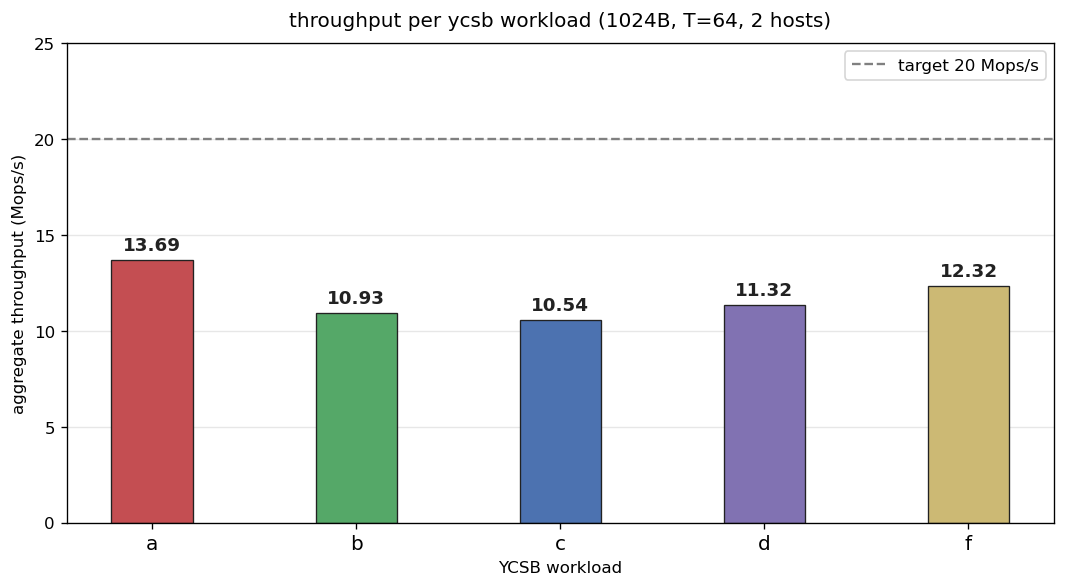
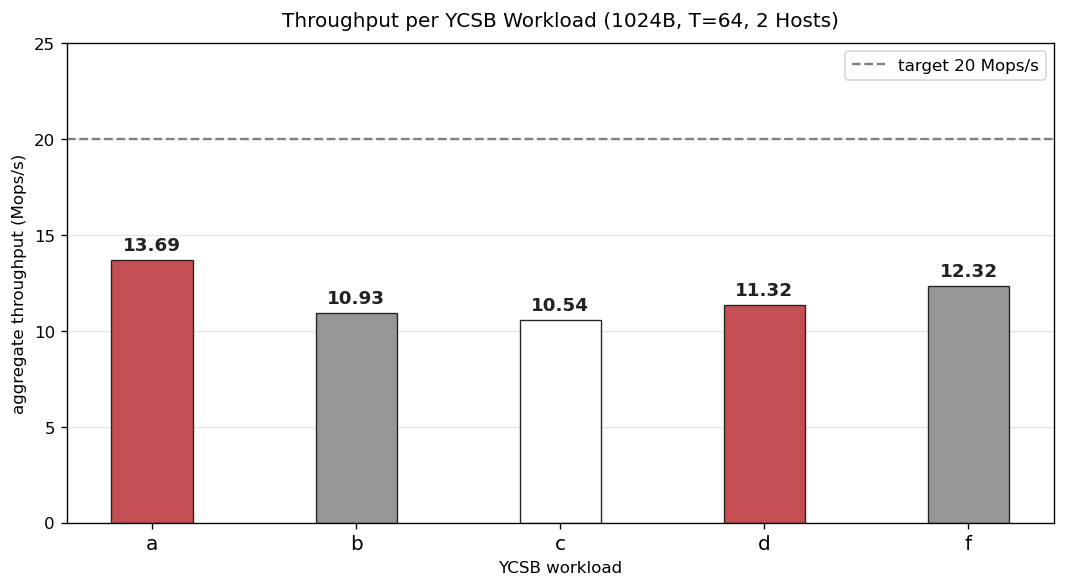
[iter11A-P6][plots] Best-per-workload titles use Title Case; thpt bars rotate STYLE_B red/grey/white
Title case fixed:
    Throughput per YCSB Workload (1024B, T=64, 2 Hosts)
    Latency per YCSB Workload (1024B, T=64, 2 Hosts)

  Throughput chart colour scheme:
    Drop the seaborn-deep per-workload palette. Rotate through the
    project STYLE_B colours instead — red (STYLE_B[2]) / mid-grey
    (STYLE_B[1]) / white — so adjacent bars are visually distinct
    without using out-of-palette hues:
      a = red    b = grey   c = white   d = red    f = grey

    All bars carry the STYLE_B dark edge so the white bar is
    visible against the background.

  Latency chart palette unchanged (write avg red + read avg grey).

diff --git a/scripts/plot_iter11A_best_per_workload.py b/scripts/plot_iter11A_best_per_workload.py
@@ -87,16 +87,20 @@ def best_per_workload(rows, kv=None):
 def plot_thpt(best, out_path):
     """Vertical bar chart: x=workload, y=throughput (Mops/s).
 
-    Bars are half-width (0.4) with per-workload colour from the
-    project COLORS dict (SEABORN_DEEP — 5-class fallback when the
-    3-tone STYLE_B greyscale doesn't extend). Project Style B
-    edges + headroom + grid applied via bar_with_headroom().
+    Bars are half-width (0.4) with colours rotating through the
+    project STYLE_B palette (accent red / mid grey / white) so
+    adjacent bars are visually distinguished without using the
+    seaborn-deep multi-hue fallback. Project Style B edges +
+    headroom + grid applied via bar_with_headroom().
     """
     fig, ax = plt.subplots(figsize=(9, 5))
     wls = WORKLOADS  # fixed order a,b,c,d,f
     values = [best[wl]["agg_mops"] for wl in wls]
-    colours = [COLORS[wl] for wl in wls]
     labels = [wl.replace("workload", "") for wl in wls]
+
+    # 3-colour rotation from STYLE_B: red, mid-grey, white
+    palette = [STYLE_B[2], STYLE_B[1], "#FFFFFF"]
+    colours = [palette[i % len(palette)] for i in range(len(wls))]
 
     x_pos = list(range(len(wls)))
     ax.bar(x_pos, values, color=colours, width=0.4)
@@ -106,7 +110,7 @@ def plot_thpt(best, out_path):
     ax.set_xlabel("YCSB workload")
     ax.set_ylabel("aggregate throughput (Mops/s)")
     ax.set_title(
-        "throughput per ycsb workload (1024B, T=64, 2 hosts)")
+        "Throughput per YCSB Workload (1024B, T=64, 2 Hosts)")
 
     # Project standard polish: edges + headroom + y-grid
     bar_with_headroom(ax, headroom=1.25)
@@ -164,7 +168,7 @@ def plot_lat(best, out_path):
     ax.set_xlabel("YCSB workload")
     ax.set_ylabel("per-op latency (µs)")
     ax.set_title(
-        "latency per ycsb workload (1024B, T=64, 2 hosts)")
+        "Latency per YCSB Workload (1024B, T=64, 2 Hosts)")
 
     # Project standard polish
     bar_with_headroom(ax, headroom=1.25)
